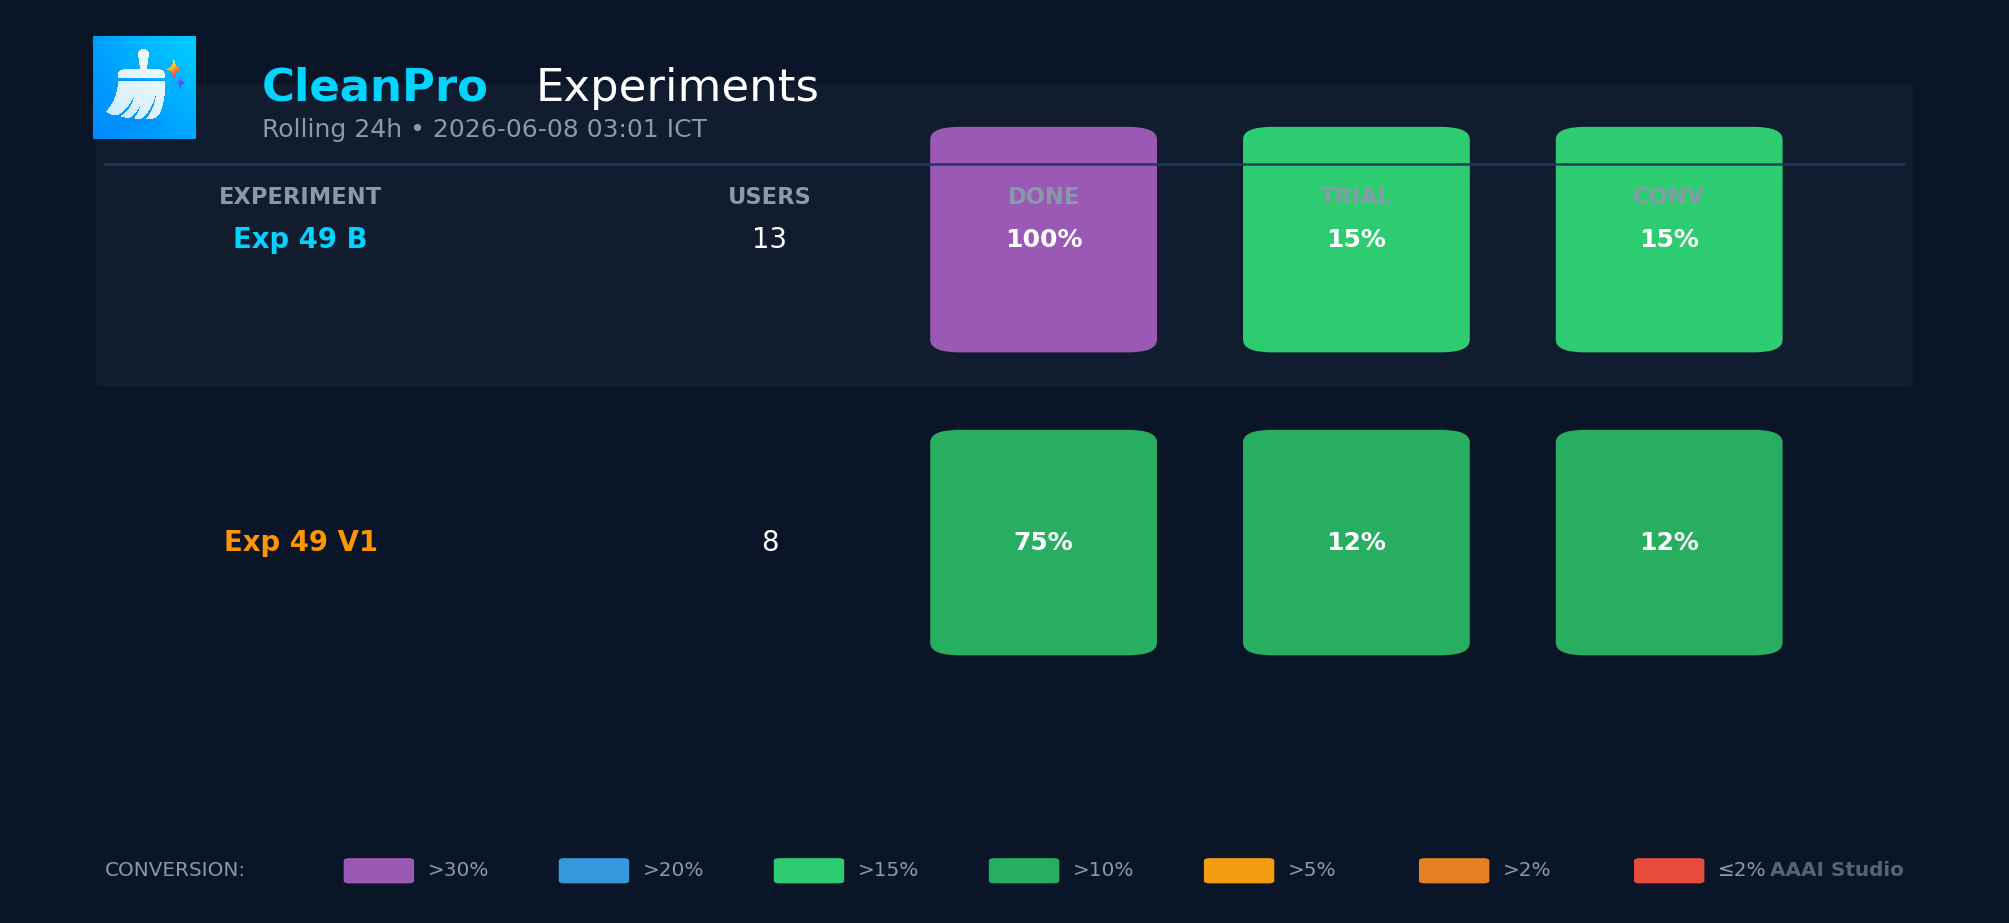
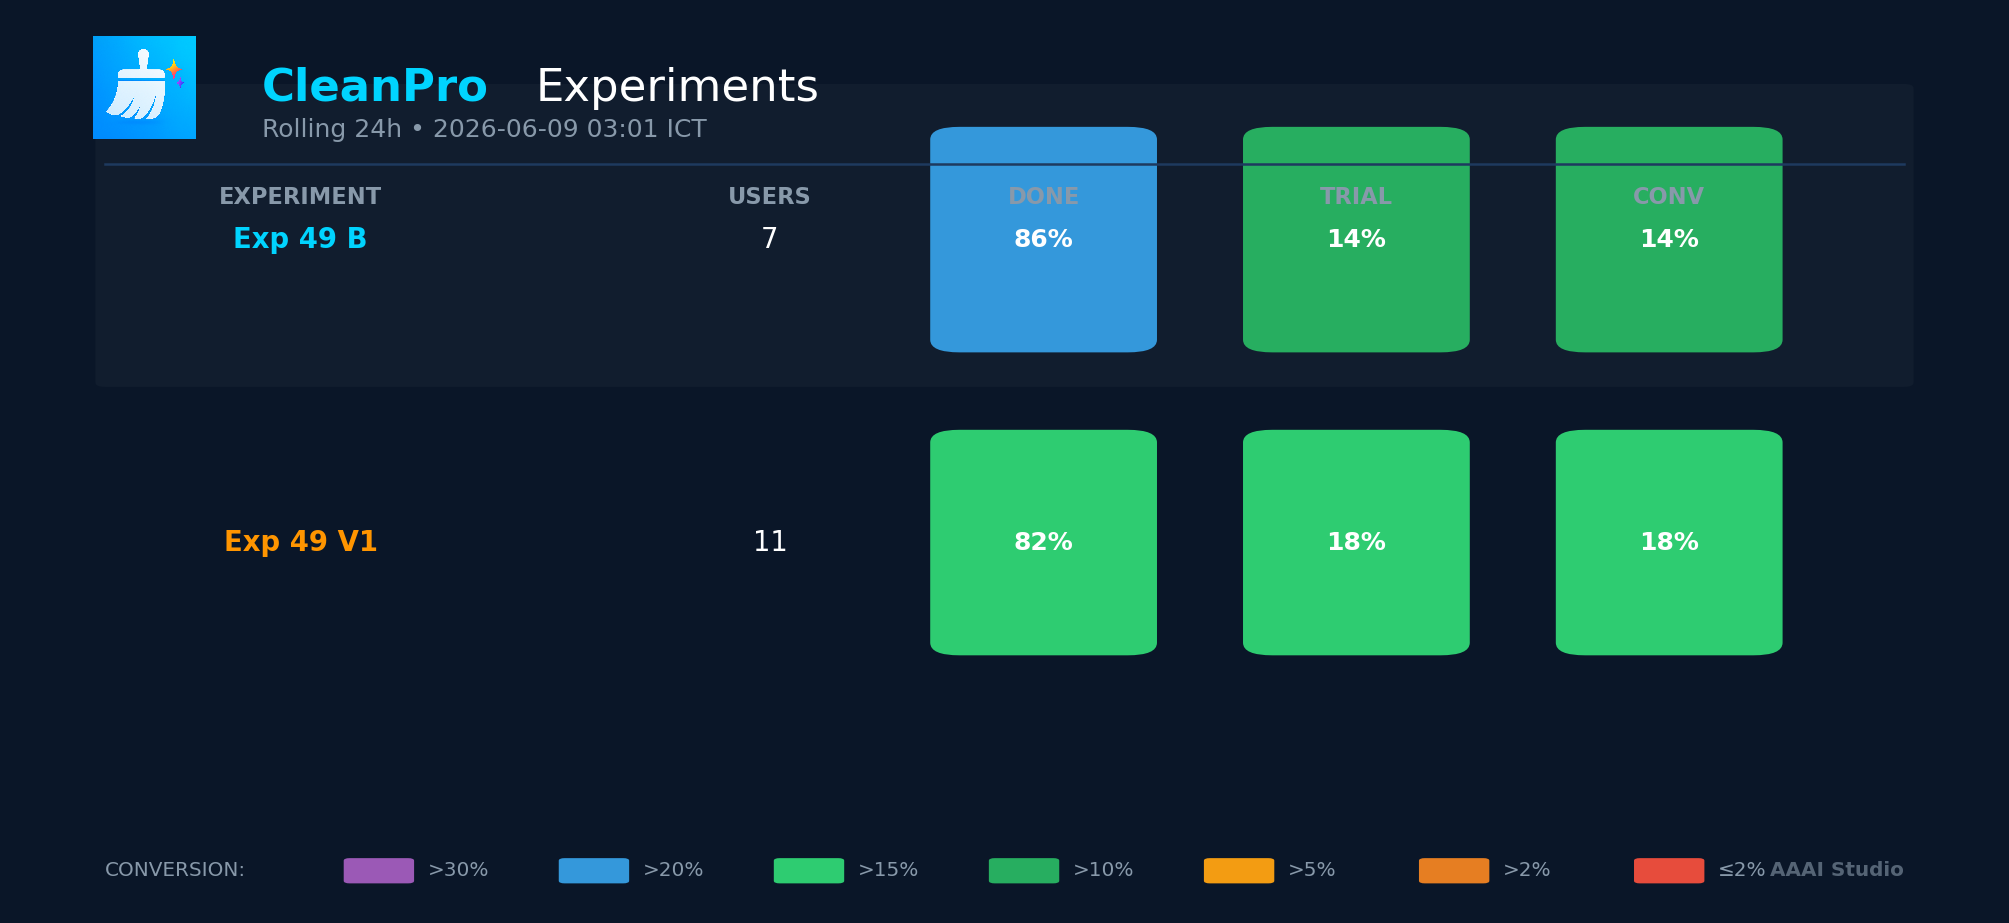
auto-commit safety net: 2026-06-09 04:03

diff --git a/reports/cleanpro/daily/2026-06-09.md b/reports/cleanpro/daily/2026-06-09.md
@@ -1,0 +1,63 @@
+📊 CleanPro Daily — 2026-06-09 (rolling 24h as of 03:00 ICT)
+
+👥 GROWTH
+  New users: 72 (DoD -27% · WoW +140%)
+  Returning: 289
+
+  📍 New Users by Country (Top 10):
+    Romania: 20
+    Spain: 18
+    Costa Rica: 9
+    Hungary: 5
+    Italy: 3
+    Netherlands: 3
+    China: 2
+    Morocco: 2
+    Germany: 2
+    Vietnam: 2
+
+🚀 ONBOARDING (new→paywall→home)
+  📍 Completion by Country (Top 10):
+    Romania: 20→17→12 (70.6% complete) ⚠
+    Spain: 18→19→14 (73.7% complete) ⚠
+    Costa Rica: 9→8→7 (87.5% complete) 🟢
+    Hungary: 5→5→4 (80.0% complete) ✅
+    Netherlands: 3→2→2 (100.0% complete) 🟣
+    Italy: 3→4→2 (50.0% complete) 🔴
+    Germany: 2→2→2 (100.0% complete) 🟣
+    Vietnam: 2→1→1 (100.0% complete) 🟣
+    China: 2→2→1 (50.0% complete) 🔴
+    Morocco: 2→2→1 (50.0% complete) 🔴
+
+💰 MONETIZATION
+  📊 Funnel:
+    New users: 72 → paywall 66 → trial 7 → paid 7 (9.7%) ⚠
+    Returning: 265 → paywall 74 → trial 2 → paid 11 (4.2%) 🟠
+
+  Overall: 140 paywall → 9 trial → 18 paid
+  Paywall→Trial: 6.4% · Trial→Paid (7d): 0/64 (0.0%)
+  Cancellations: 21 · Expirations: 12 · Billing issues: 9
+  DoD -5% · WoW +125%
+
+  📍 Conversion by Country (Top 10):
+    TOTAL: 108→14 (13.0%) ✅
+    ─────────────────────
+    Romania: 27→5 (18.5%) ✅
+    Spain: 24→2 (8.3%) ⚠
+    Costa Rica: 17→1 (5.9%) ⚠
+    Philippines: 13→2 (15.4%) ✅
+    Italy: 9→1 (11.1%) ✅
+    Hungary: 5→2 (40.0%) 🔵
+    Netherlands: 4→0 (0.0%) 🔴
+    Saudi Arabia: 3→1 (33.3%) 🔵
+    Germany: 3→0 (0.0%) 🔴
+    Vietnam: 3→0 (0.0%) 🔴
+
+🧪 EXPERIMENTS (B=Baseline | users/done%/trial%/conv%)
+    49: B:7u/86%/14%/14%✅ | V1:10u/80%/20%/20%✅
+
+🧹 PRODUCT
+  Scans: 89 users (104 total scans)
+  Cleans: 11 users
+  First scan: 19 new users completed
+  First delete: 23 new users completed
